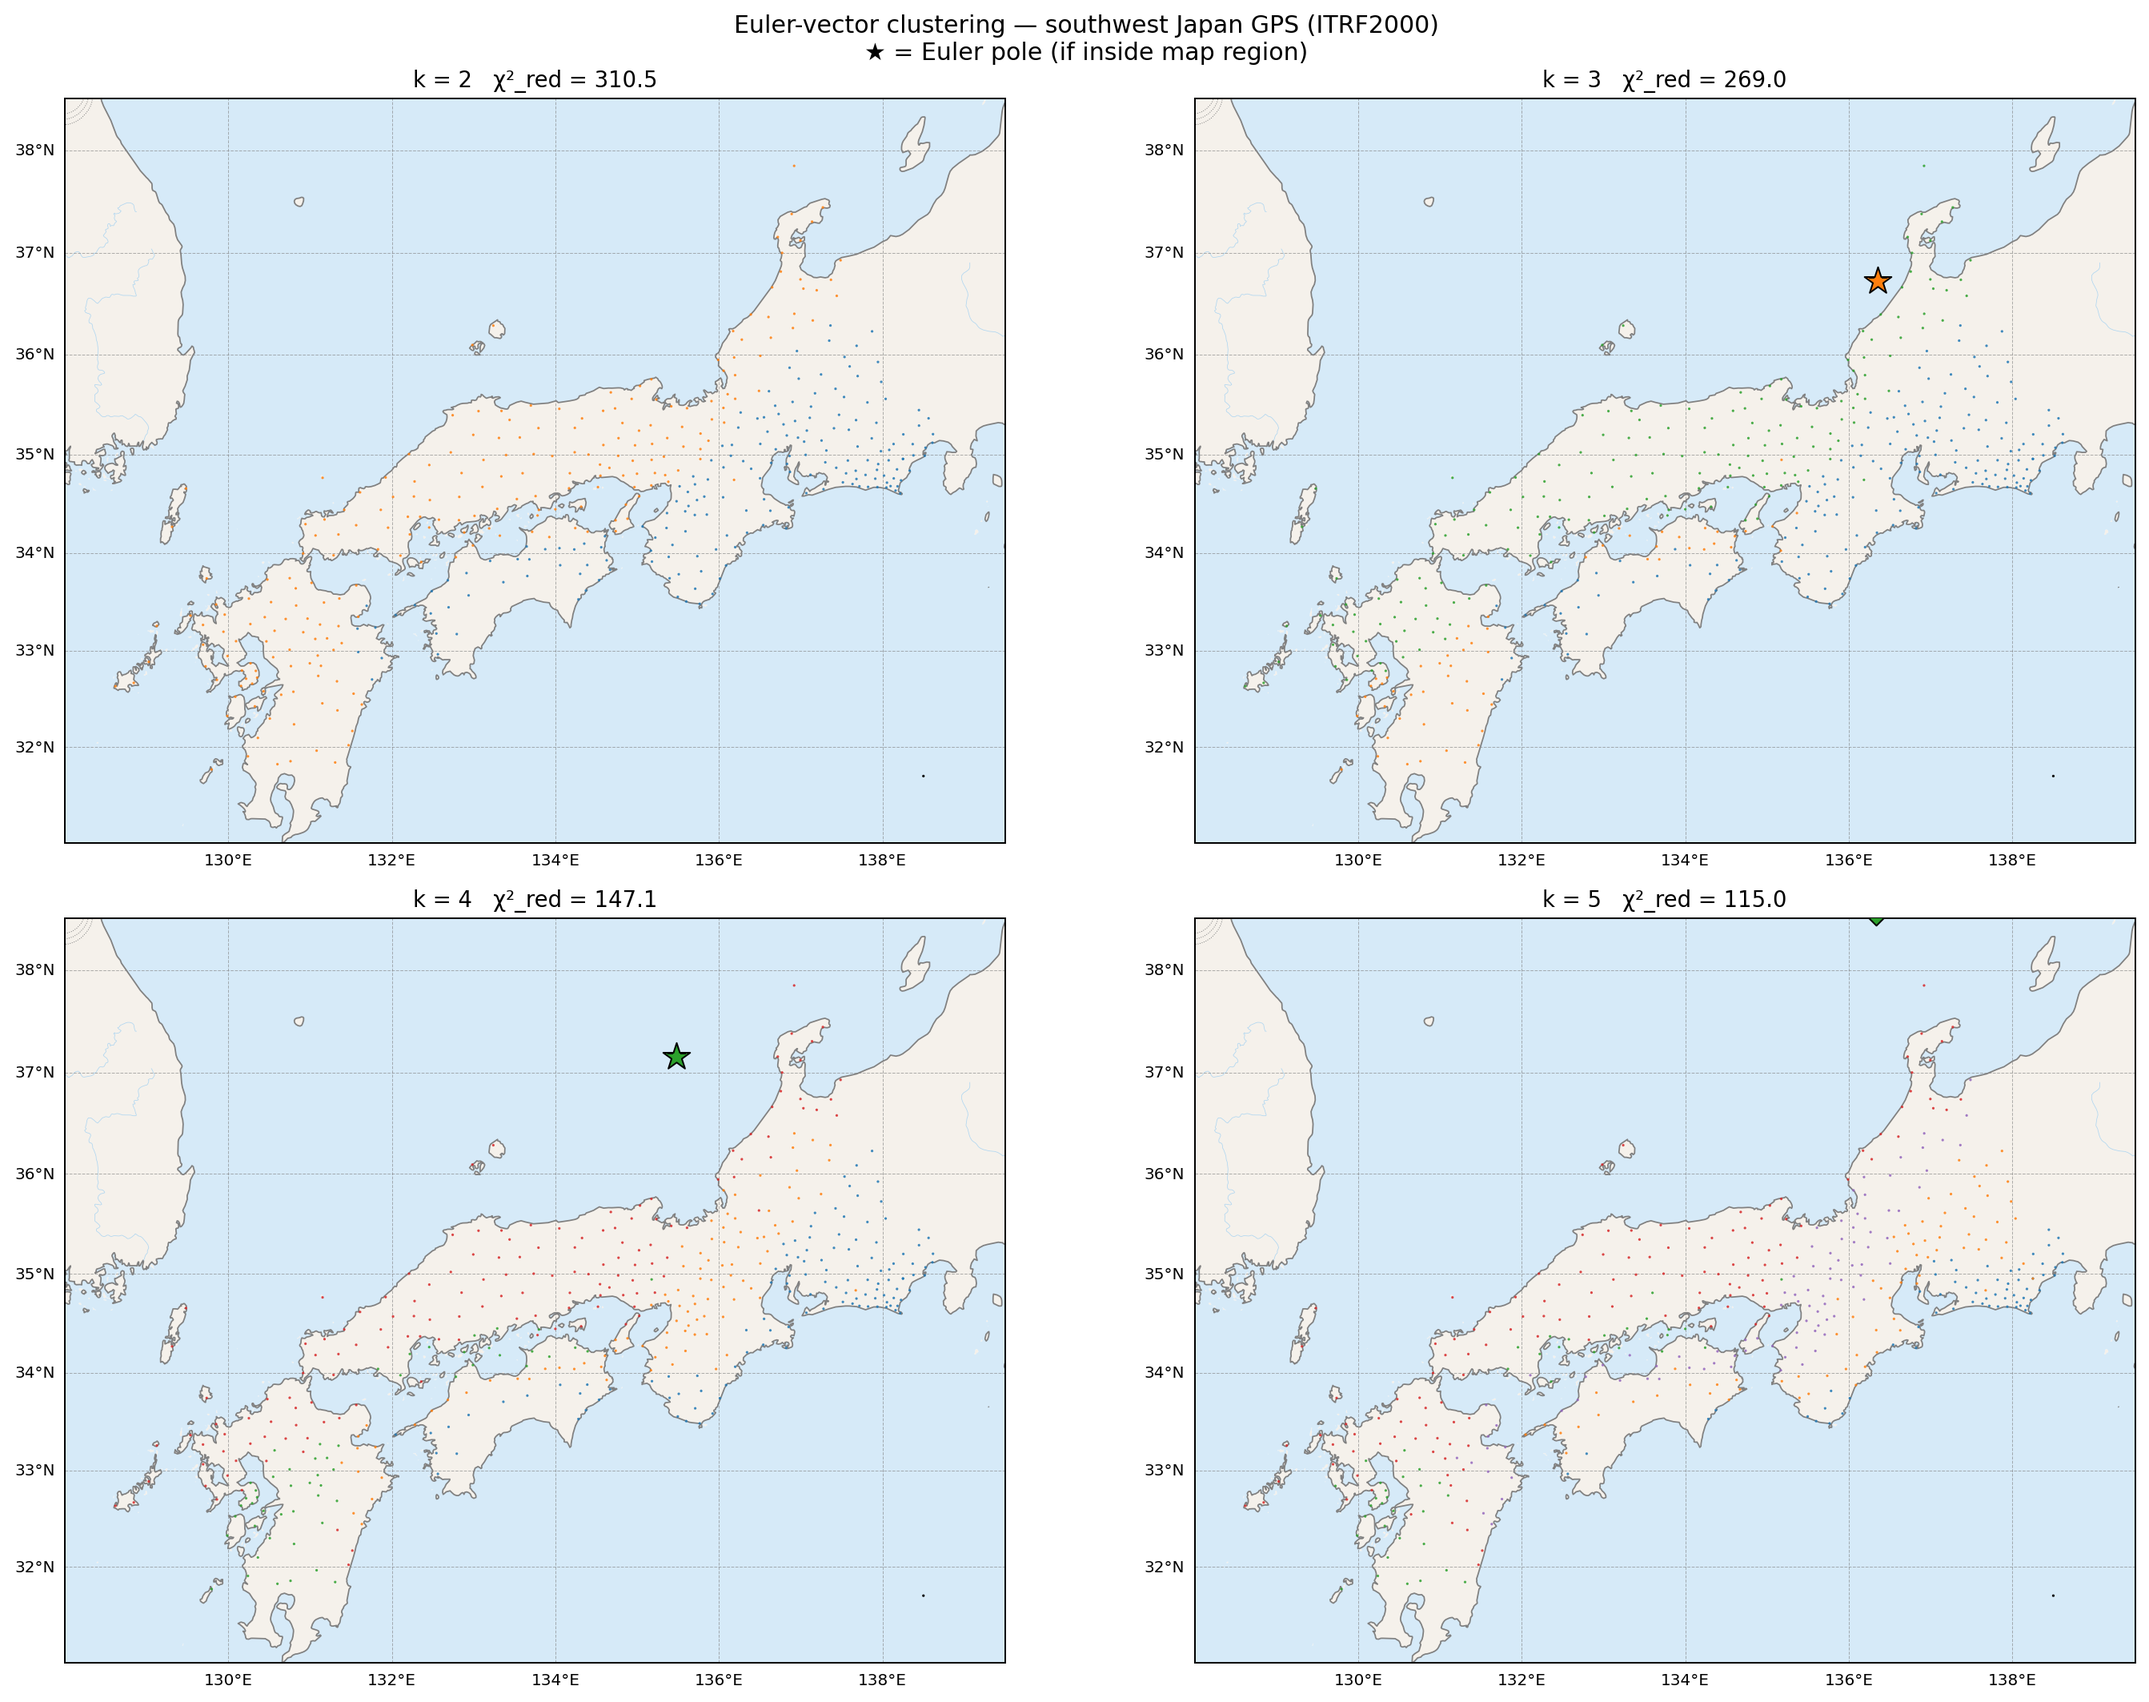
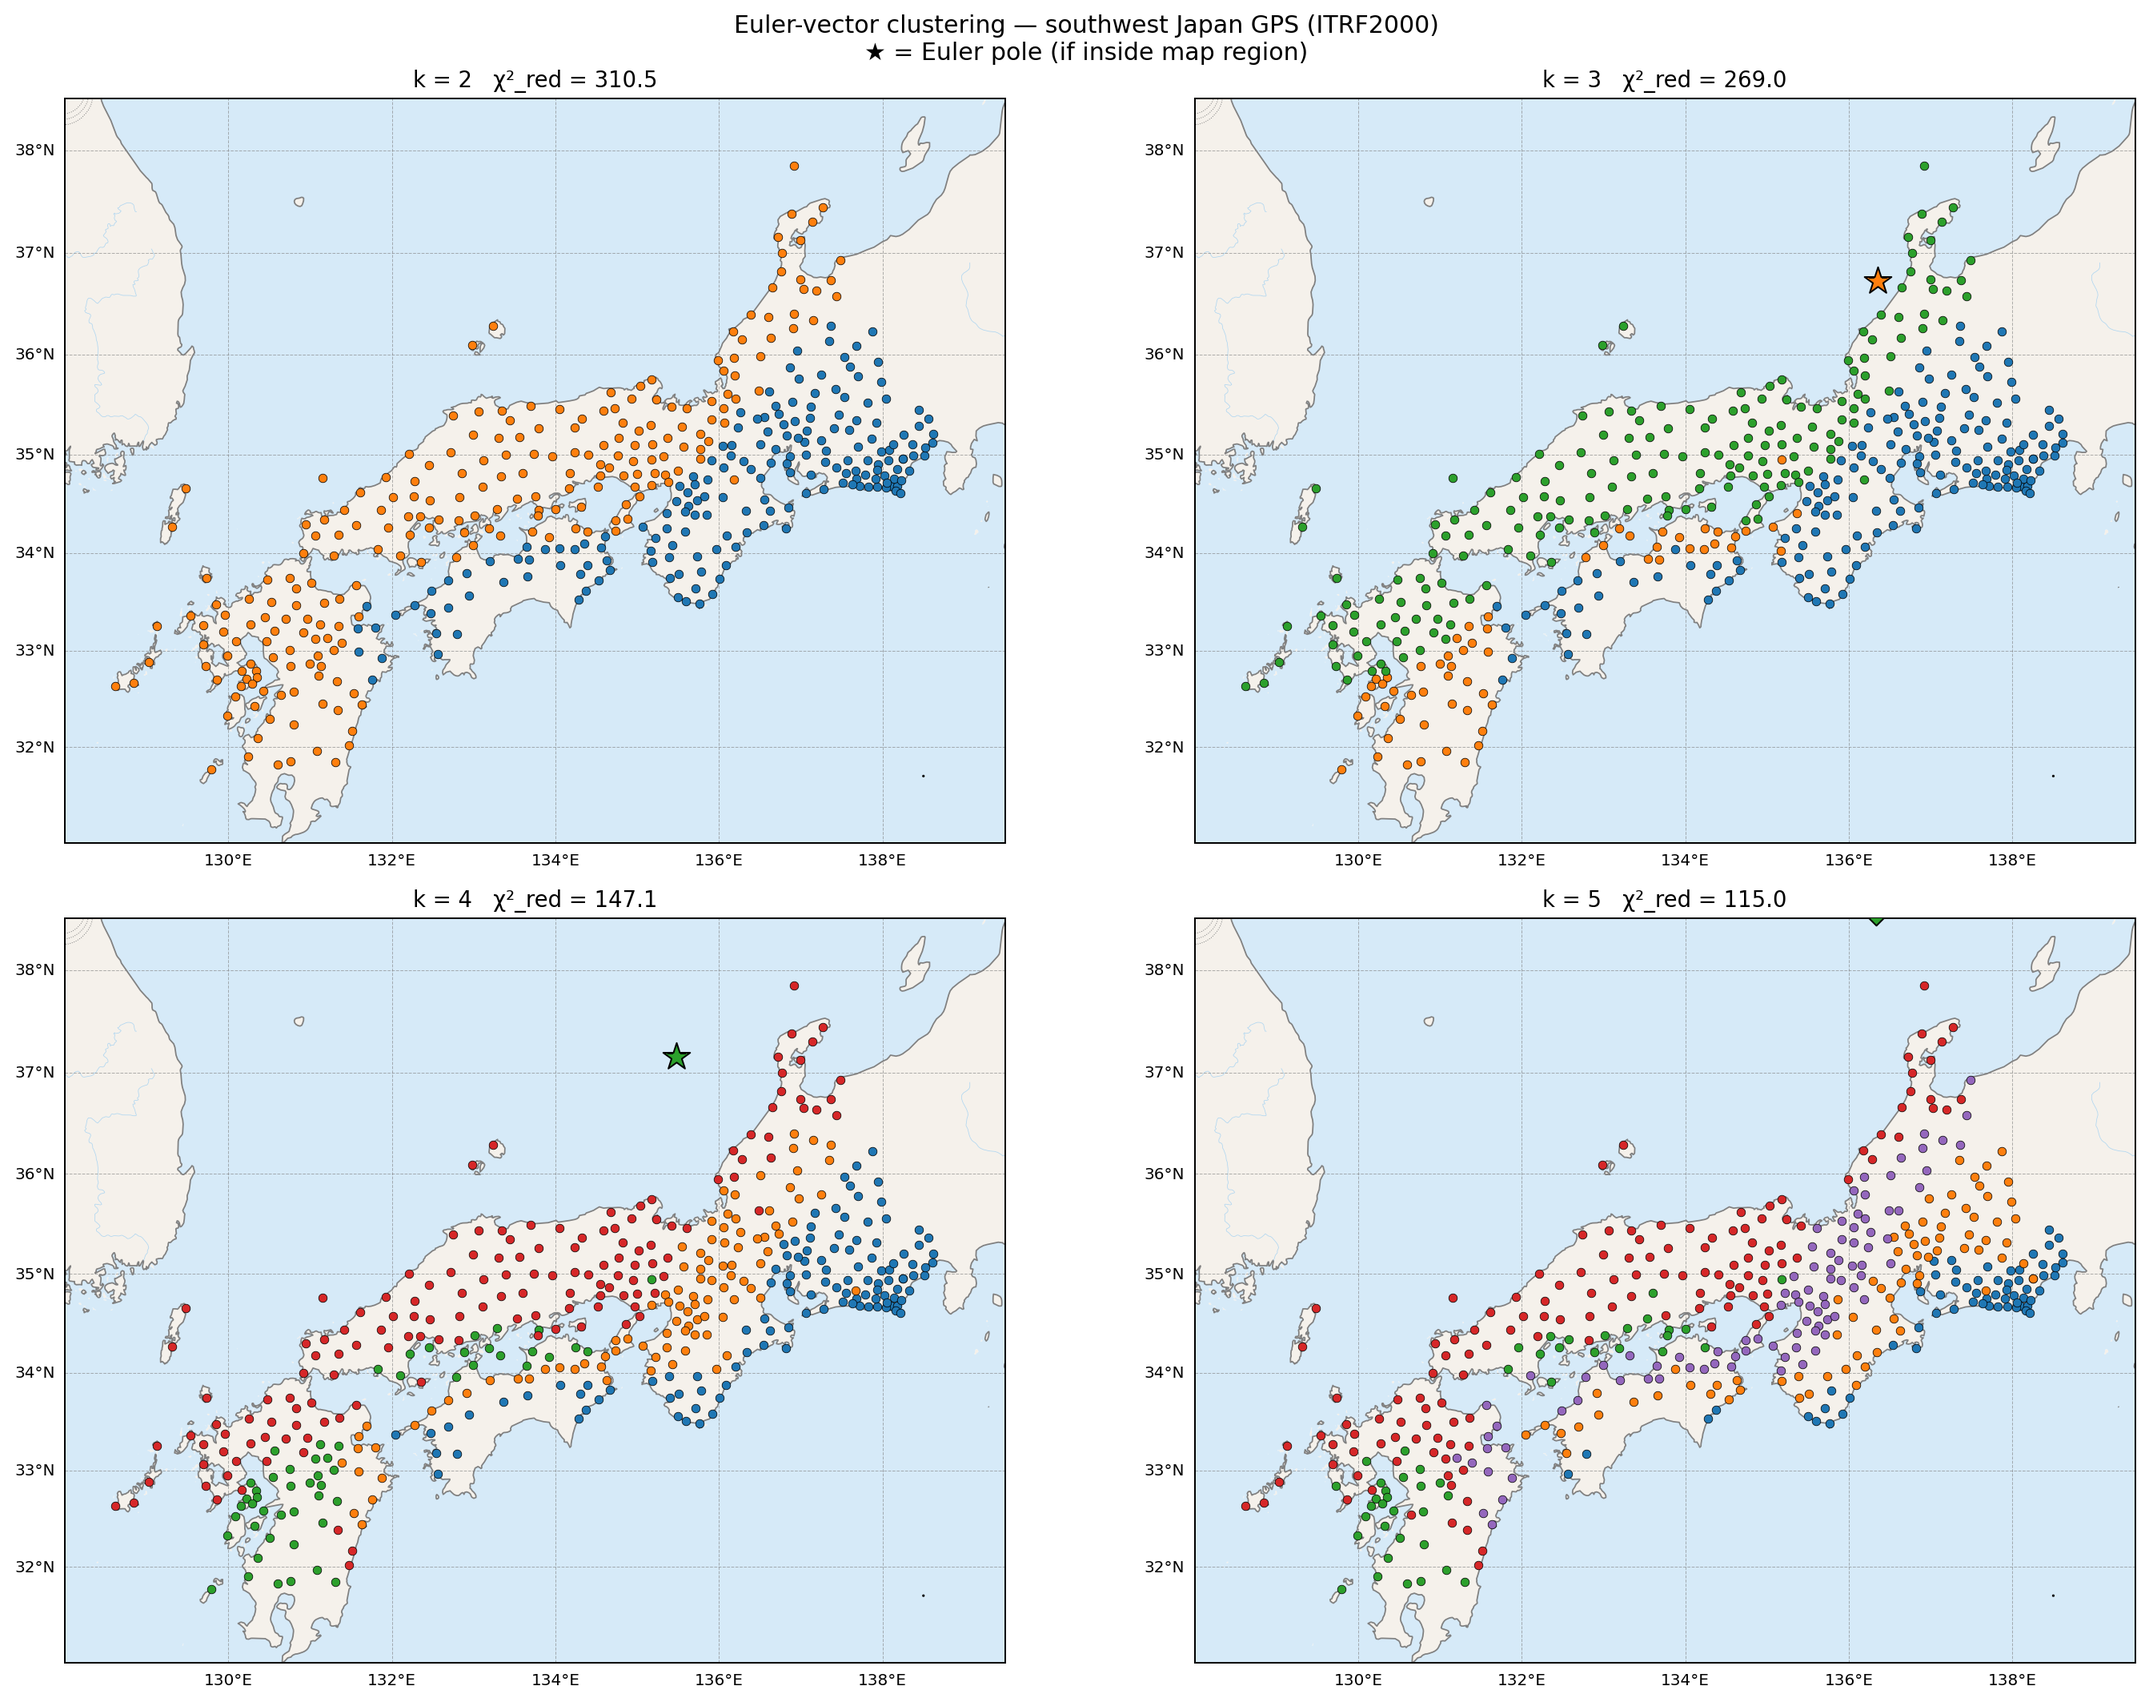
fix(plots): larger symbols and station dots in Figs 2, 5, 6, 7
- Fig 2: scatter marker s=18→50 for readable velocity-space distribution
- Figs 5/6/7: add colored station dots (_scatter helper) so cluster
  membership is visible independently of arrow direction
- Wider quiver shafts (width 0.003→0.004, headwidth 4→5)
- Fix leftover scale=350 in Figs 6 and 7 (arrows were invisible)

diff --git a/scripts/plot_japan_clusters.py b/scripts/plot_japan_clusters.py
@@ -74,9 +74,18 @@ def _quiver(ax, stations_list, color, scale=20, **kw):
     q = ax.quiver(lons, lats, ve, vn,
                   transform=ccrs.PlateCarree(),
                   scale=scale, scale_units="xy",
-                  width=0.003, headwidth=4, headlength=5,
-                  color=color, alpha=0.85, zorder=3, **kw)
+                  width=0.004, headwidth=5, headlength=6,
+                  color=color, alpha=0.9, zorder=3, **kw)
     return q
+
+
+def _scatter(ax, stations_list, color, s=28):
+    """Plot colored station dots on a cartopy map."""
+    lons = np.array([s.position.lon for s in stations_list])
+    lats = np.array([s.position.lat for s in stations_list])
+    ax.scatter(lons, lats, s=s, color=color,
+               edgecolor="k", linewidths=0.3,
+               transform=ccrs.PlateCarree(), zorder=4)
 
 
 def _ref_arrow(ax, lon=138.5, lat=31.7, length=20, scale=20, label=True):
@@ -125,14 +134,14 @@ plt.close(fig)
 # Figure 2 — Velocity scatter (raw vs clean)
 # ═══════════════════════════════════════════════════════════════════════════════
 print("Plotting Fig 2: velocity scatter …")
-fig, (ax1, ax2) = plt.subplots(1, 2, figsize=(11, 5))
+fig, (ax1, ax2) = plt.subplots(1, 2, figsize=(12, 6))
 for ax, s_list, title in [
         (ax1, raw,      f"Raw  (N={len(raw)})"),
         (ax2, stations, f"Preprocessed (N={len(stations)})")]:
     ve = [s.velocity.ve for s in s_list]
     vn = [s.velocity.vn for s in s_list]
-    ax.scatter(ve, vn, s=18, edgecolor="steelblue", facecolor="white",
-               linewidths=0.6, alpha=0.7)
+    ax.scatter(ve, vn, s=50, edgecolor="steelblue", facecolor="white",
+               linewidths=0.8, alpha=0.8)
     ax.axhline(0, color="gray", lw=0.5, ls="--")
     ax.axvline(0, color="gray", lw=0.5, ls="--")
     ax.set_xlabel("Ve  (mm/yr)", fontsize=11)
@@ -217,7 +226,7 @@ plt.close(fig)
 print("Plotting Fig 5: k=3 cluster map …")
 clusters3 = evc.cluster(stations, k=3)
 
-fig, ax = plt.subplots(figsize=(10, 7),
+fig, ax = plt.subplots(figsize=(11, 8),
                        subplot_kw={"projection": ccrs.Mercator()})
 _basemap(ax)
 
@@ -225,11 +234,12 @@ legend_handles = []
 for c in clusters3:
     col  = CMAP(c.id - 1)
     pole = euler_vector_to_pole(c.euler_vector)
+    _scatter(ax, c.stations, color=col, s=30)
     _quiver(ax, c.stations, color=col)
     _pole_marker(ax, pole, color=col,
                  label=f"E{c.id} ({pole.lat:.0f}°N,{pole.lon:.0f}°E)\n{pole.rate:.2f}°/Myr")
     legend_handles.append(Line2D([0], [0], color=col, lw=0, marker="o",
-                                 markersize=8, markeredgecolor="k", markeredgewidth=0.5,
+                                 markersize=9, markeredgecolor="k", markeredgewidth=0.5,
                                  label=f"Cluster {c.id}  (N={c.size})"))
 
 _ref_arrow(ax)
@@ -261,7 +271,8 @@ for ax, clusters, title in [
 for c in clusters3:
     col = CMAP(c.id - 1)
     # left panel: observed
-    _quiver(axes[0], c.stations, color=col, scale=350)
+    _scatter(axes[0], c.stations, color=col, s=22)
+    _quiver(axes[0], c.stations, color=col, scale=20)
     # right panel: residuals
     lons, lats, dve, dvn = [], [], [], []
     for s in c.stations:
@@ -270,14 +281,15 @@ for c in clusters3:
         lats.append(s.position.lat)
         dve.append(s.velocity.ve - ve_pred)
         dvn.append(s.velocity.vn - vn_pred)
+    _scatter(axes[1], c.stations, color=col, s=22)
     axes[1].quiver(np.array(lons), np.array(lats), np.array(dve), np.array(dvn),
                    transform=ccrs.PlateCarree(),
-                   scale=100, scale_units="xy",
-                   width=0.003, headwidth=4, headlength=5,
-                   color=col, alpha=0.85, zorder=3)
+                   scale=5, scale_units="xy",
+                   width=0.004, headwidth=5, headlength=6,
+                   color=col, alpha=0.9, zorder=3)
 
-_ref_arrow(axes[0], length=20, scale=350)
-_ref_arrow(axes[1], length=5,  scale=100)
+_ref_arrow(axes[0], length=20, scale=20)
+_ref_arrow(axes[1], length=5,  scale=5)
 
 fig.suptitle("Observed vs. residual velocities — Euler-vector clustering k=3",
              fontsize=12)
@@ -299,7 +311,8 @@ for ax, k in zip(axes, [2, 3, 4, 5]):
     for c in clusters_k:
         col  = CMAP(c.id - 1)
         pole = euler_vector_to_pole(c.euler_vector)
-        _quiver(ax, c.stations, color=col, scale=350)
+        _scatter(ax, c.stations, color=col, s=18)
+        _quiver(ax, c.stations, color=col, scale=20)
         _pole_marker(ax, pole, color=col)
 
     _ref_arrow(ax, label=False)
